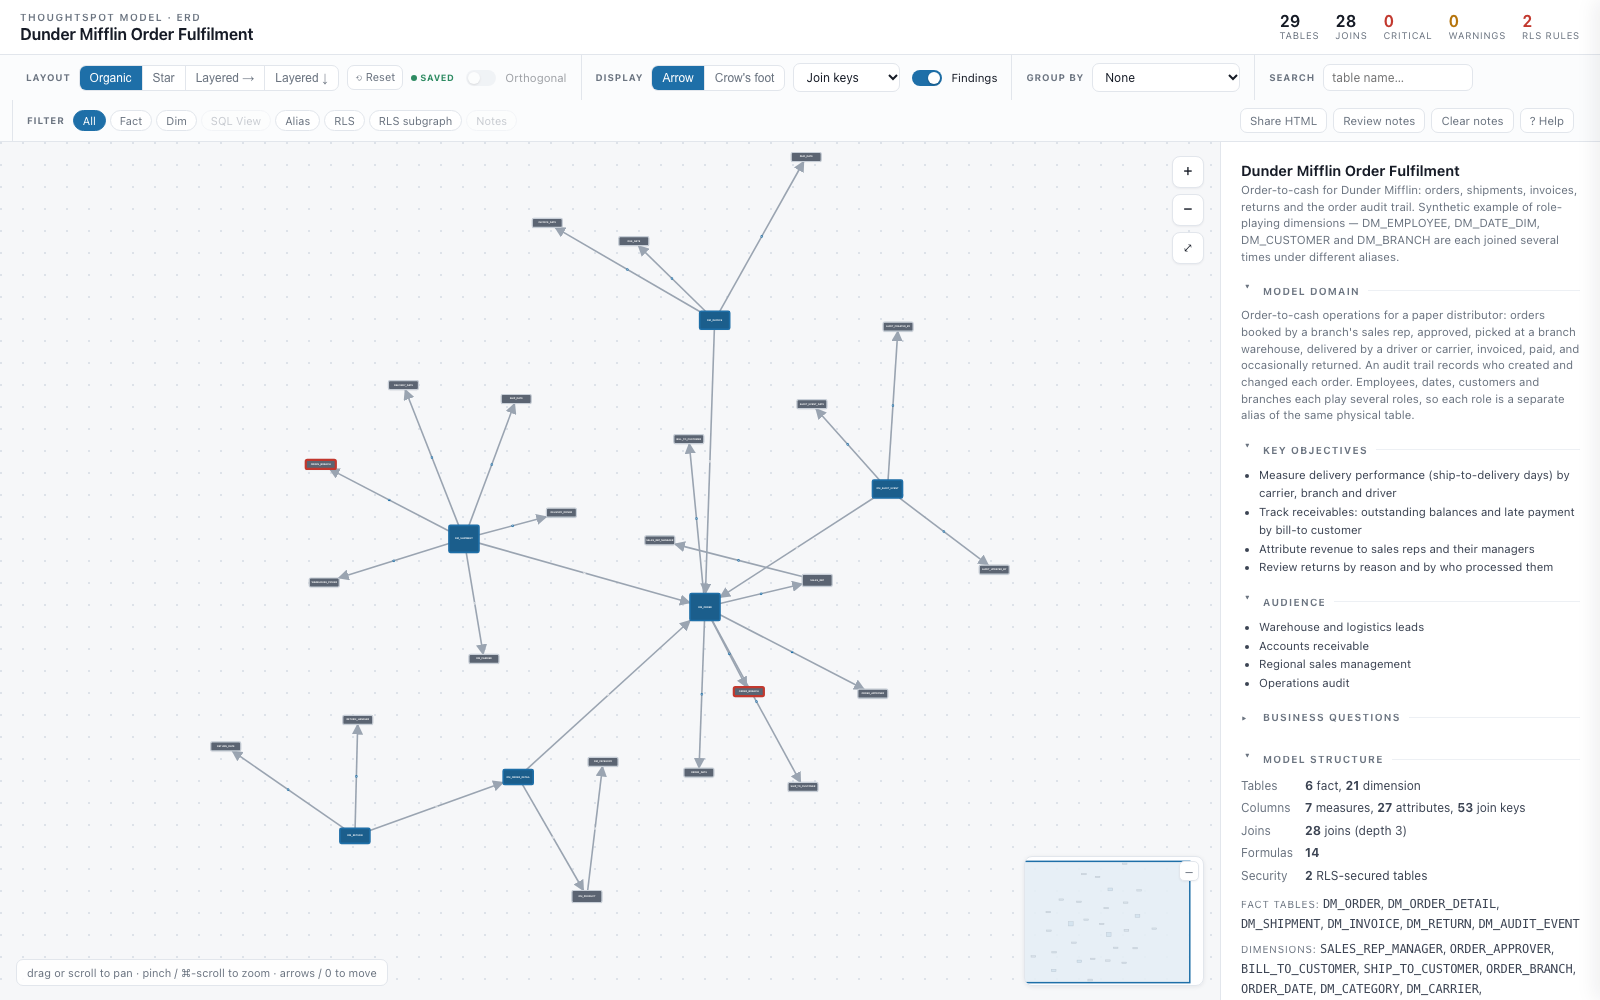
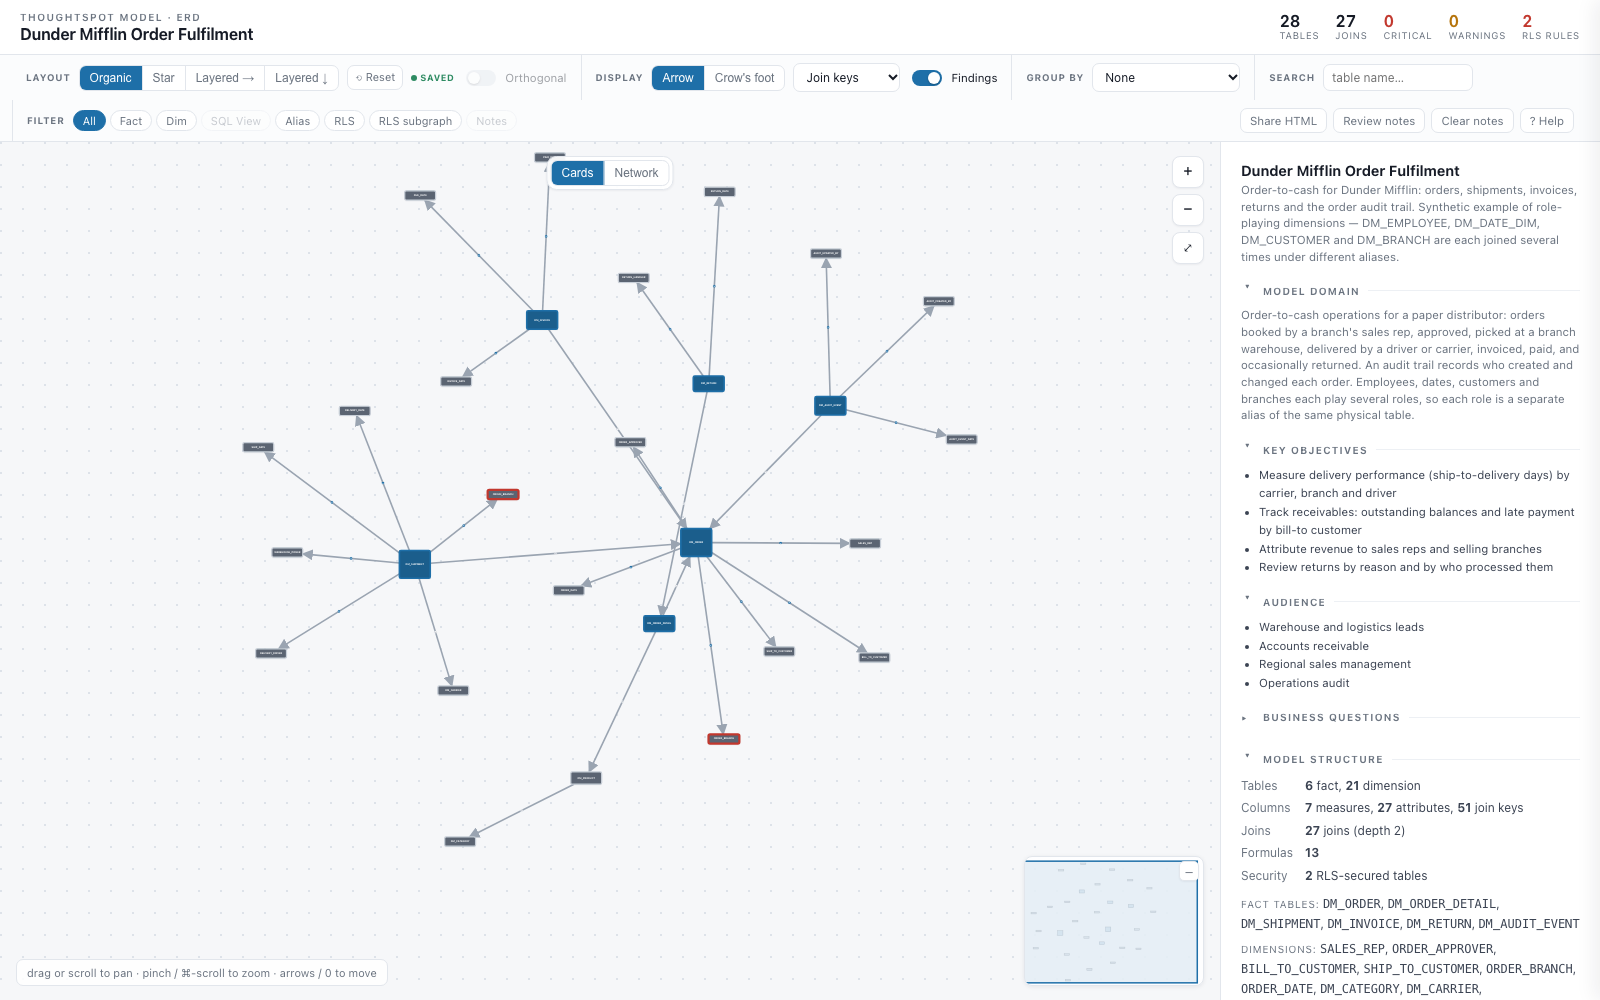
fix(erd): cap organic-layout repulsion; refresh order-fulfilment screenshots (ts-object-model-erd 1.9.4) (#648)
* fix(erd): cap organic-layout repulsion so nodes cannot be flung off-screen; refresh order-fulfilment screenshots (ts-object-model-erd 1.9.4)

* test(erd): organic layout keeps every node near the graph (fails on the uncapped renderer)

---------

diff --git a/agents/cli/ts-object-model-erd/examples/order-fulfilment/model_erd.html b/agents/cli/ts-object-model-erd/examples/order-fulfilment/model_erd.html
@@ -732,10 +732,13 @@ function computeOrganic(){
   var avgH=nodes.reduce(function(s,n){return s+n.h;},0)/nc;
   var minSep=NODE_W+40,minSepY=avgH+40;
   var repK=Math.max(180000,NODE_W*NODE_W*nc*1.5),spring=(NODE_W+avgH)*1.2*scale;
+  var maxRep=NODE_W*.6;
   nodes.forEach(function(n,i){var a=i/nc*Math.PI*2;n.x=cx+Math.cos(a)*rad+(rnd()-.5)*40;n.y=cy+Math.sin(a)*ry+(rnd()-.5)*40;});
   for(var it=0;it<500;it++){var cool=1-it/500;
     for(var i=0;i<nc;i++)for(var k=i+1;k<nc;k++){var a=nodes[i],b=nodes[k];
-      var dx=a.x-b.x,dy=a.y-b.y,d2=dx*dx+dy*dy||1,d=Math.sqrt(d2),rep=repK/d2;
+      // Cap the step: uncapped, repK/d2 for two nodes that start close throws one thousands
+      // of px, and springs + gravity cannot reel it back before the layout cools.
+      var dx=a.x-b.x,dy=a.y-b.y,d2=dx*dx+dy*dy||1,d=Math.sqrt(d2),rep=Math.min(repK/d2,maxRep);
       a.x+=dx/d*rep*cool;a.y+=dy/d*rep*cool;b.x-=dx/d*rep*cool;b.y-=dy/d*rep*cool;}
     edges.forEach(function(e){var dx=e.t.x-e.s.x,dy=e.t.y-e.s.y,d=Math.sqrt(dx*dx+dy*dy)||1,f=(d-spring)*.012*cool;
       e.s.x+=dx/d*f;e.s.y+=dy/d*f;e.t.x-=dx/d*f;e.t.y-=dy/d*f;});

diff --git a/agents/cli/ts-object-model-erd/examples/sales-inventory/model_erd.html b/agents/cli/ts-object-model-erd/examples/sales-inventory/model_erd.html
@@ -732,10 +732,13 @@ function computeOrganic(){
   var avgH=nodes.reduce(function(s,n){return s+n.h;},0)/nc;
   var minSep=NODE_W+40,minSepY=avgH+40;
   var repK=Math.max(180000,NODE_W*NODE_W*nc*1.5),spring=(NODE_W+avgH)*1.2*scale;
+  var maxRep=NODE_W*.6;
   nodes.forEach(function(n,i){var a=i/nc*Math.PI*2;n.x=cx+Math.cos(a)*rad+(rnd()-.5)*40;n.y=cy+Math.sin(a)*ry+(rnd()-.5)*40;});
   for(var it=0;it<500;it++){var cool=1-it/500;
     for(var i=0;i<nc;i++)for(var k=i+1;k<nc;k++){var a=nodes[i],b=nodes[k];
-      var dx=a.x-b.x,dy=a.y-b.y,d2=dx*dx+dy*dy||1,d=Math.sqrt(d2),rep=repK/d2;
+      // Cap the step: uncapped, repK/d2 for two nodes that start close throws one thousands
+      // of px, and springs + gravity cannot reel it back before the layout cools.
+      var dx=a.x-b.x,dy=a.y-b.y,d2=dx*dx+dy*dy||1,d=Math.sqrt(d2),rep=Math.min(repK/d2,maxRep);
       a.x+=dx/d*rep*cool;a.y+=dy/d*rep*cool;b.x-=dx/d*rep*cool;b.y-=dy/d*rep*cool;}
     edges.forEach(function(e){var dx=e.t.x-e.s.x,dy=e.t.y-e.s.y,d=Math.sqrt(dx*dx+dy*dy)||1,f=(d-spring)*.012*cool;
       e.s.x+=dx/d*f;e.s.y+=dy/d*f;e.t.x-=dx/d*f;e.t.y-=dy/d*f;});

diff --git a/agents/shared/erd/renderer.js b/agents/shared/erd/renderer.js
@@ -319,10 +319,13 @@ function computeOrganic(){
   var avgH=nodes.reduce(function(s,n){return s+n.h;},0)/nc;
   var minSep=NODE_W+40,minSepY=avgH+40;
   var repK=Math.max(180000,NODE_W*NODE_W*nc*1.5),spring=(NODE_W+avgH)*1.2*scale;
+  var maxRep=NODE_W*.6;
   nodes.forEach(function(n,i){var a=i/nc*Math.PI*2;n.x=cx+Math.cos(a)*rad+(rnd()-.5)*40;n.y=cy+Math.sin(a)*ry+(rnd()-.5)*40;});
   for(var it=0;it<500;it++){var cool=1-it/500;
     for(var i=0;i<nc;i++)for(var k=i+1;k<nc;k++){var a=nodes[i],b=nodes[k];
-      var dx=a.x-b.x,dy=a.y-b.y,d2=dx*dx+dy*dy||1,d=Math.sqrt(d2),rep=repK/d2;
+      // Cap the step: uncapped, repK/d2 for two nodes that start close throws one thousands
+      // of px, and springs + gravity cannot reel it back before the layout cools.
+      var dx=a.x-b.x,dy=a.y-b.y,d2=dx*dx+dy*dy||1,d=Math.sqrt(d2),rep=Math.min(repK/d2,maxRep);
       a.x+=dx/d*rep*cool;a.y+=dy/d*rep*cool;b.x-=dx/d*rep*cool;b.y-=dy/d*rep*cool;}
     edges.forEach(function(e){var dx=e.t.x-e.s.x,dy=e.t.y-e.s.y,d=Math.sqrt(dx*dx+dy*dy)||1,f=(d-spring)*.012*cool;
       e.s.x+=dx/d*f;e.s.y+=dy/d*f;e.t.x-=dx/d*f;e.t.y-=dy/d*f;});

diff --git a/agents/cli/ts-object-model-erd/tests/test_layout_bounds.py b/agents/cli/ts-object-model-erd/tests/test_layout_bounds.py
@@ -1,0 +1,29 @@
+"""The organic layout must not fling a node far from the rest of the graph.
+
+Repulsion was repK/d^2 with no cap: two nodes that started close could throw one thousands
+of pixels in a single step, and the springs and centring pull could not bring it back before
+the layout cooled. The 28-table Order Fulfilment example opened with its PRODUCT -> CATEGORY
+tail ~7,000 px out (farthest/median distance from the centroid 5.17). Both examples render
+in headless Chrome; the bound is loose enough for any sane layout (every Model in a 52-graph
+benchmark sat at or under 1.9 after the fix).
+"""
+import os
+import statistics
+
+import pytest
+
+from . import browser
+
+pytestmark = pytest.mark.skipif(browser.CHROME is None, reason="Google Chrome not installed")
+
+EXAMPLES = os.path.join(os.path.dirname(__file__), "..", "examples")
+_POINTS = "return nodes.map(function(n){return [n.x,n.y];});"
+
+
+@pytest.mark.parametrize("example", ["order-fulfilment", "sales-inventory"])
+def test_no_node_is_flung_far_from_the_rest(example, tmp_path):
+    pts = browser.probe(os.path.join(EXAMPLES, example, "model_erd.html"), _POINTS, tmp_path)
+    cx = statistics.mean(p[0] for p in pts)
+    cy = statistics.mean(p[1] for p in pts)
+    d = sorted(((x - cx) ** 2 + (y - cy) ** 2) ** 0.5 for x, y in pts)
+    assert d[-1] / statistics.median(d) < 3, (example, round(d[-1] / statistics.median(d), 2))

diff --git a/agents/cli/ts-object-model-erd/SKILL.md b/agents/cli/ts-object-model-erd/SKILL.md
@@ -310,6 +310,7 @@ HTML file; no ThoughtSpot login required to view.
 
 | Version | Date | Summary |
 |---|---|---|
+| 1.9.4 | 2026-10-22 | **Organic layout no longer flings nodes off-screen.** Repulsion was `repK/d²` with no cap, so two nodes that started close could throw one thousands of pixels in a single step, and the springs and centring pull could not bring it back before the layout cooled: the 28-table Order Fulfilment example opened with its PRODUCT → CATEGORY tail about 7,000 px from the rest (layout span 10,333 px). A repulsion step is now capped at 0.6 card widths. Measured over 42 Models (40 real ones from the SE demo cluster, plus both examples) and 10 synthetic 30-60-table star/snowflake graphs, the farthest node's distance from the centroid divided by the median's: the example goes from 5.17 to 1.47 (span 4,561 px), and nothing else gets worse by more than 0.3. Also refreshes the Order Fulfilment screenshots, which still showed the manager table removed in 1.9.3. |
 | 1.9.3 | 2026-10-21 | **BL-396 — the Order Fulfilment example now imports.** Its Model TML was lint-clean when it shipped but broke two join rules `ts tml lint` gained in ts-cli 0.176.0. Nineteen joins to aliases named the alias in `on:` (I19); `on:` now names the physical table on each side, and `with:` still selects the alias. `SALES_REP → SALES_REP_MANAGER` was a self-join between two aliases of `DM_EMPLOYEE` (I18), which a Model does not support in any form, so that alias, its join, the `Sales Rep Manager` formula and column, and the README bullet advertising it are gone (28 tables, 19 of them aliases). `model_erd.html` is re-rendered; the screenshots predate the change. Both examples now lint clean. No change to the builder or the renderer. **Parser fix:** join keys now reach alias nodes. `on:` names physical tables, but the parser looked each one up as a node id, so in any Model that aliases a table (every role-played date, employee or customer dimension) the alias's join keys were silently missing from the diagram and from the ts-audit ERD, which shares the parser. The example only showed them because its TML was wrong; it now shows keys on all 19 aliases. |
 | 1.9.2 | 2026-10-14 | **Share HTML and model-switch fixes.** A shared file now records which model and which card layout its positions belong to. It opens on that model in that layout: shared from Layered → it opens in Layered →, where before the layered positions were planted in Organic. In a multi-model file, the baked positions and notes no longer leak into the other models' saved layouts and notes. Files shared before this change still open with their positions, applied only to the model the file opens on. Switching models now lays the new model out in the current layout; before, it was drawn in Organic while the Layered button stayed lit, so drags saved into the wrong layout. |
 | 1.9.1 | 2026-10-14 | **Network view polish** (the review's deferred minors). The Layout button stays highlighted in Network view, showing the card layout Cards returns to, and is restored on load, so a file shared from Network view no longer opens with none lit. Label width is measured with the real font, not estimated per character, so long names no longer overlap a neighbouring dot. The minimap draws the network as role-coloured dots. The network legend keeps clear of the minimap on small screens. The examples README says a remembered view choice takes precedence over `#view=network`. |

diff --git a/CHANGELOG.md b/CHANGELOG.md
@@ -6,6 +6,7 @@ Skill-level changes are tracked in each skill's own `## Changelog` section.
 ---
 
 ## 2026-10-22
+- fix: ts-object-model-erd 1.9.4 — the organic layout caps each repulsion step, so a Model's first view can no longer fling a node thousands of pixels off-screen (the 28-table example's layout span drops from 10,333 to 4,561 px; no other Model across a 52-graph benchmark gets worse). Affects the ts-audit report's ERD too, which shares the renderer. Order Fulfilment example screenshots refreshed.
 - feat: ts-audit 2.6.0 — the assessment profile is honoured: `ts audit run --assessment spotter|general` (default general) sets the AI-readiness checks' bar (A1 95%/50%, A2 80%/25%, A6 required/recommended, A3-A4 HIGH/MEDIUM), from one table in `ts_cli/audit/assessment.py`. The skill always asked for the profile and never passed it on (BL-399).
 - chore: bump ts-cli to v0.181.0
 - feat: `ts tml lint` I20 (a `MANY_TO_MANY` Model join, rejected with 14528) and I21 (a `referencing_join` under an entry whose own Table TML does not declare it, rejected with 14504; checked when the Table TMLs are linted alongside). Power BI (ts-convert-from-powerbi 1.1.8) and Sisense (ts-convert-from-sisense 1.0.5) now leave a many-to-many relationship out and flag it NEEDS REVIEW instead of emitting a join that fails import. Filed BL-399: ts-audit's assessment profile is never used.

diff --git a/docs/backlog.md b/docs/backlog.md
@@ -14312,6 +14312,9 @@ the manager alias, its self-join, formula and column are removed rather than rep
 flattened view (the example has no warehouse to hold one), and the README now says self-joins are
 not supported. Both examples lint clean; `model_erd.html` re-rendered. The screenshots still show
 the removed table.
+**Screenshots refreshed 2026-10-22** (ts-object-model-erd 1.9.4), captured in headless Chrome at
+1600x1000. Doing so exposed an organic-layout bug — an uncapped repulsion step flung the
+PRODUCT/CATEGORY tail ~7,000 px out — fixed in the same change.
 
 ## BL-397 — Join shapes import rejects that `ts tml lint` does not check `Tier 2`
 
